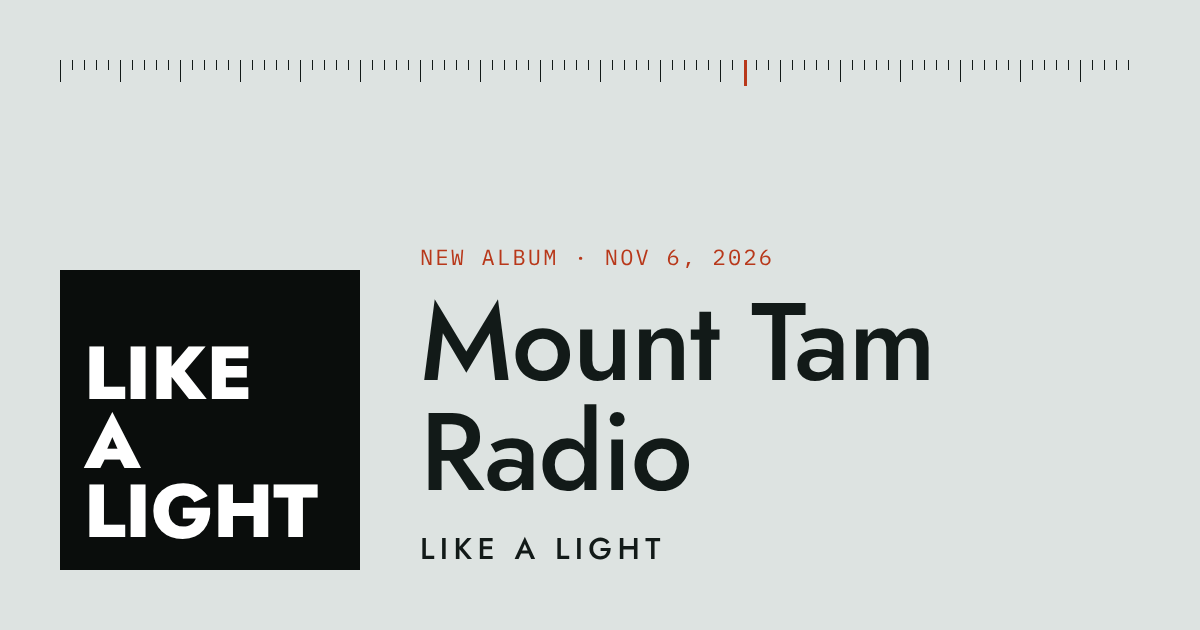
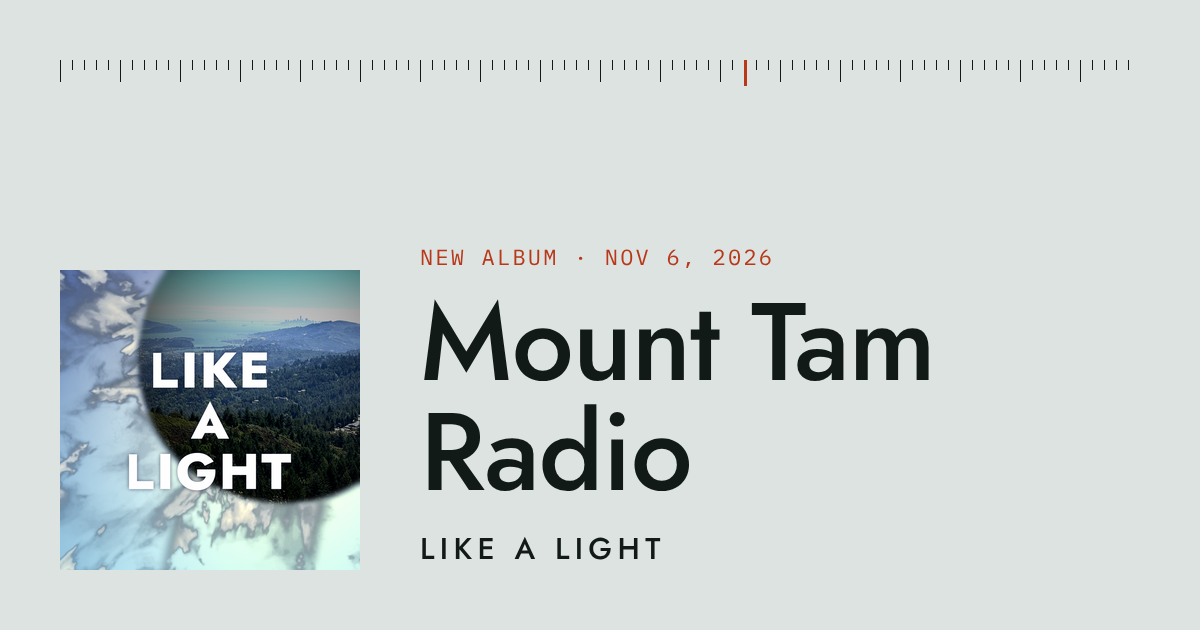
Add album cover
Add album cover and update text and metadata

Changed region(s): [[0.0308, 0.4222, 0.3083, 0.9048]]

diff --git a/index.html b/index.html
@@ -73,6 +73,7 @@ ol.tracks li{display:flex;align-items:baseline;gap:20px;padding:14px 0;border-bo
 
 dl.credits{display:grid;grid-template-columns:minmax(110px,200px) minmax(0,1fr);margin:0;max-width:720px;border-top:1px solid var(--rule)}
 dl.credits dt{padding:14px 16px 14px 0;border-bottom:1px solid var(--rule);font-family:var(--mono);font-size:13px;color:var(--muted)}
+.pf{display:block}.pf+.pf{margin-top:6px}
 dl.credits dd{margin:0;padding:14px 0;border-bottom:1px solid var(--rule);font-size:17px}
 
 .photos{display:flex;flex-wrap:wrap;gap:16px}
@@ -98,16 +99,7 @@ footer.bottom{display:flex;flex-wrap:wrap;justify-content:space-between;align-it
 <main>
 <section class="hero">
 <div class="cover-col">
-<!-- STAND-IN COVER: replace this whole .cover-box with
-     <img src="cover.jpg" alt="Like A Light, album cover" width="1200" height="1200" style="width:100%;height:auto;display:block">
-     once the 3000 x 3000 cover is added to this folder (resize a copy to about 1200 px for the web). -->
-<div class="cover-box">
-<div class="cover" role="img" aria-label="Album cover: Like A Light, white lettering on black">
-<div>Like</div>
-<div>A</div>
-<div>Light</div>
-</div>
-</div>
+<img src="cover.jpg" alt="Like A Light, album cover" width="1200" height="1200" style="width:100%;height:auto;display:block">
 </div>
 <div class="text-col">
 <div class="eyebrow">New album · Out November 6, 2026</div>
@@ -145,13 +137,13 @@ footer.bottom{display:flex;flex-wrap:wrap;justify-content:space-between;align-it
 <section class="band">
 <h2>Credits</h2>
 <dl class="credits">
-<dt>Songs</dt><dd>[Name]</dd>
+<dt>Songs</dt><dd>Ethan Grossman</dd>
+<dt>Executive producer</dt><dd>Ethan Grossman</dd>
+<dt>Associate producers</dt><dd>Richard Howell, James Henry</dd>
 <dt>Guitar parts</dt><dd>Dave Smith</dd>
-<dt>Finished with</dt><dd>James Henry, Richard Howell</dd>
-<dt>Performers and instruments</dt><dd>[from your credit sheet]</dd>
-<dt>Mastered by</dt><dd>[Name]</dd>
-<dt>Cover</dt><dd>[Name]</dd>
-<dt>Thanks</dt><dd>Ed Quamen, Andy Moorer, Dave Aguilar</dd>
+<dt>Performers and instruments</dt><dd><span class="pf">Ethan Grossman: lead vocals, bass, keyboards, percussion</span><span class="pf">Richard Howell: background vocals, saxes, keyboards and synth</span><span class="pf">Dave Smith: guitar, background vocals</span><span class="pf">James Henry: drums, percussion</span><span class="pf">Ed Quamen: drums</span><span class="pf">Elé Howell: percussion, drums</span><span class="pf">David Aguilar: slide guitar</span><span class="pf">Andy Moorer: banjo, saxes</span></dd>
+<dt>Recorded, mixed and mastered by</dt><dd>Ethan Grossman</dd>
+<dt>Cover</dt><dd>Ethan Grossman</dd>
 <dt>Label</dt><dd>Blithedale Canyon</dd>
 </dl>
 </section>
